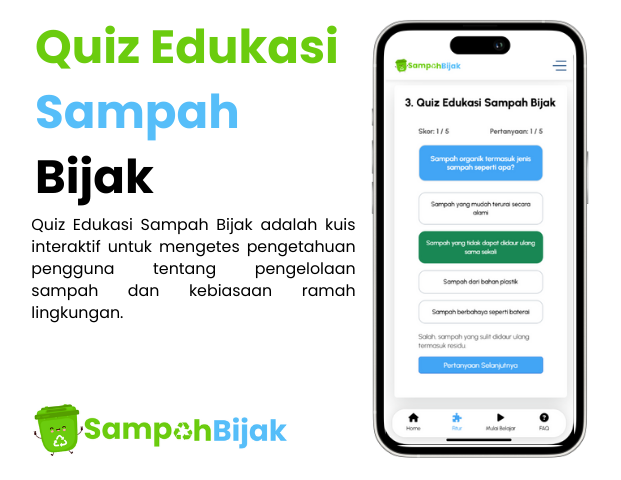
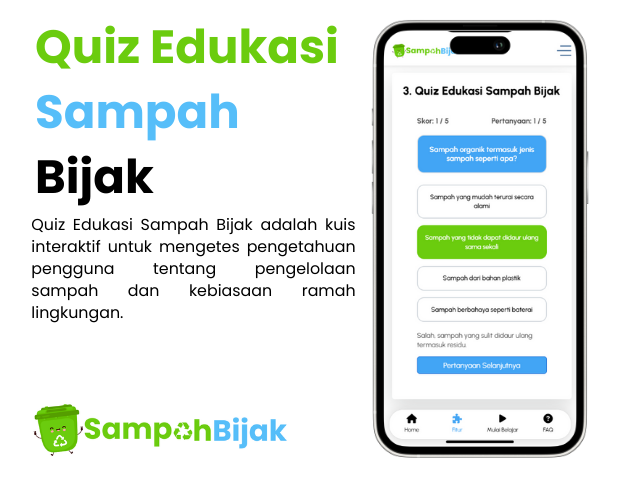
update

diff --git a/belajarsampahbijak.html b/belajarsampahbijak.html
@@ -211,13 +211,13 @@
         
         .option-btn:hover {
             background: #e9ecef;
-            border-color: #198754;
+            border-color: #6bcc0e;
         }
         
         .option-btn.correct {
-            background: #198754 !important;
+            background: #6bcc0e !important;
             color: #fff;
-            border-color: #198754;
+            border-color: #6bcc0e;
         }
         
         .explanation {

diff --git a/fitur-detail-3.html b/fitur-detail-3.html
@@ -78,13 +78,13 @@
         
         .option-btn:hover {
             background: #e9ecef;
-            border-color: #198754;
+            border-color: #6bcc0e;
         }
         
         .option-btn.correct {
-            background: #198754 !important;
+            background: #6bcc0e !important;
             color: #fff;
-            border-color: #198754;
+            border-color: #6bcc0e;
         }
         
         .explanation {
